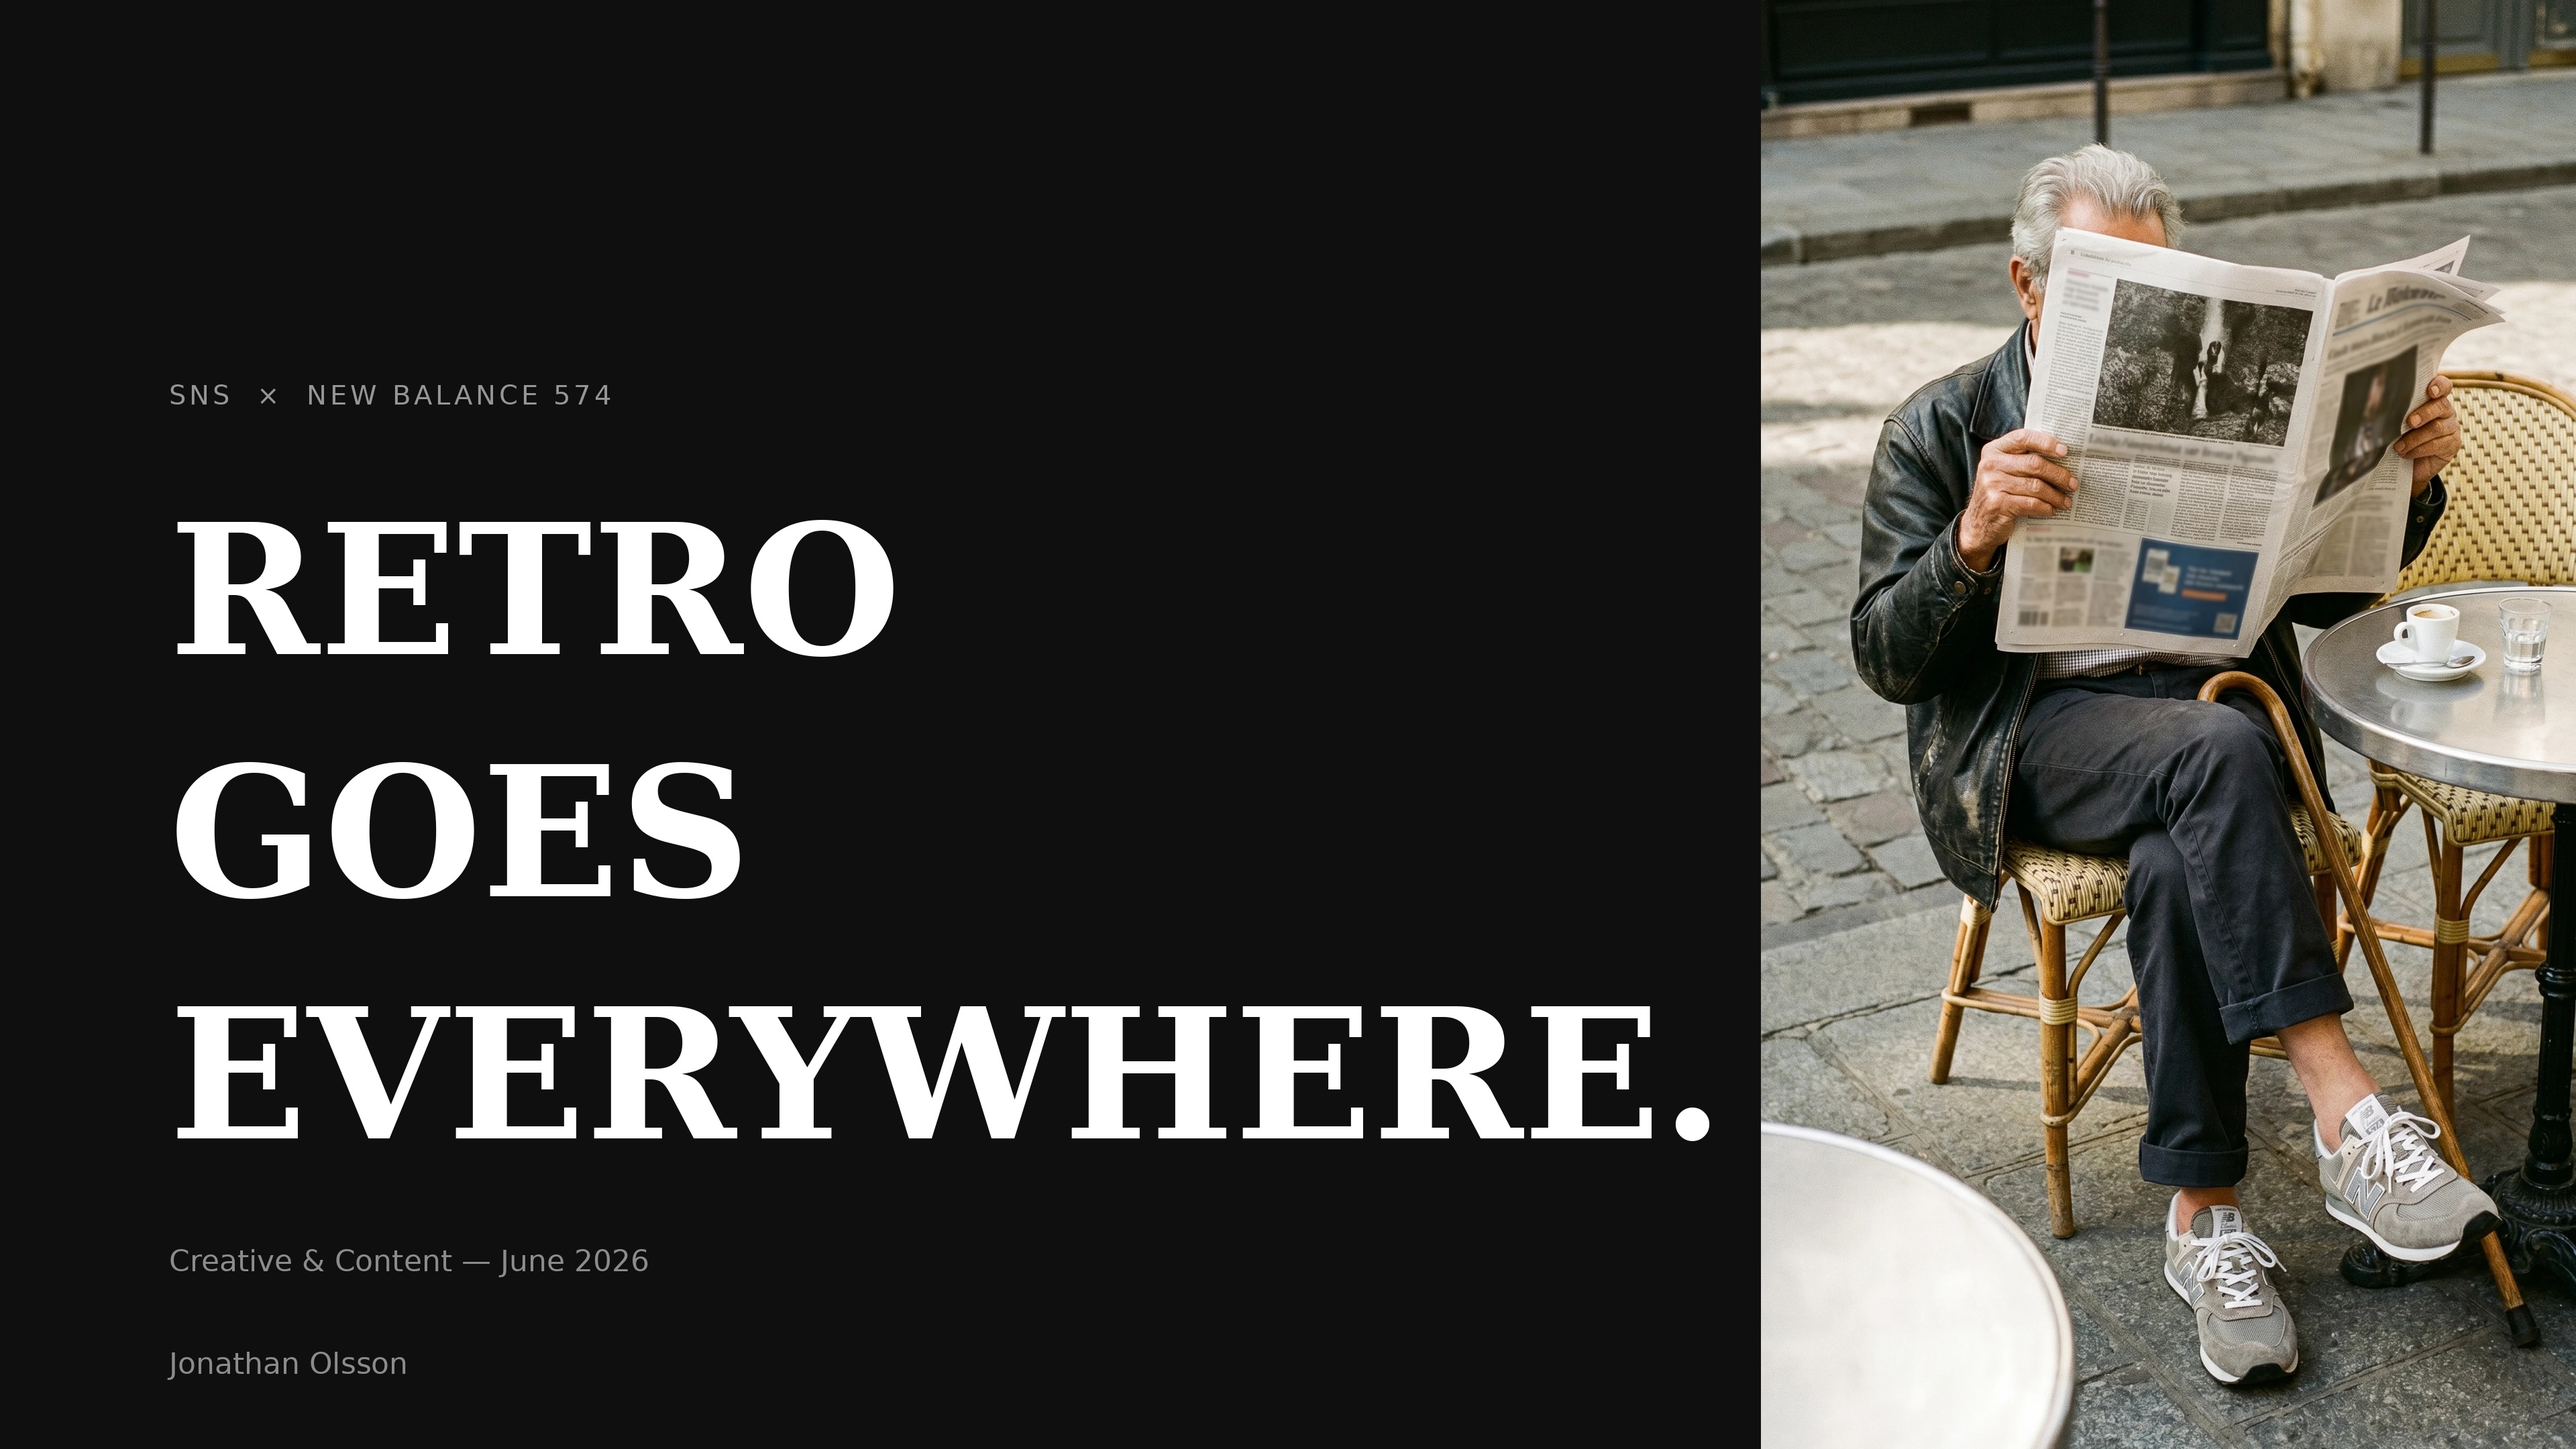
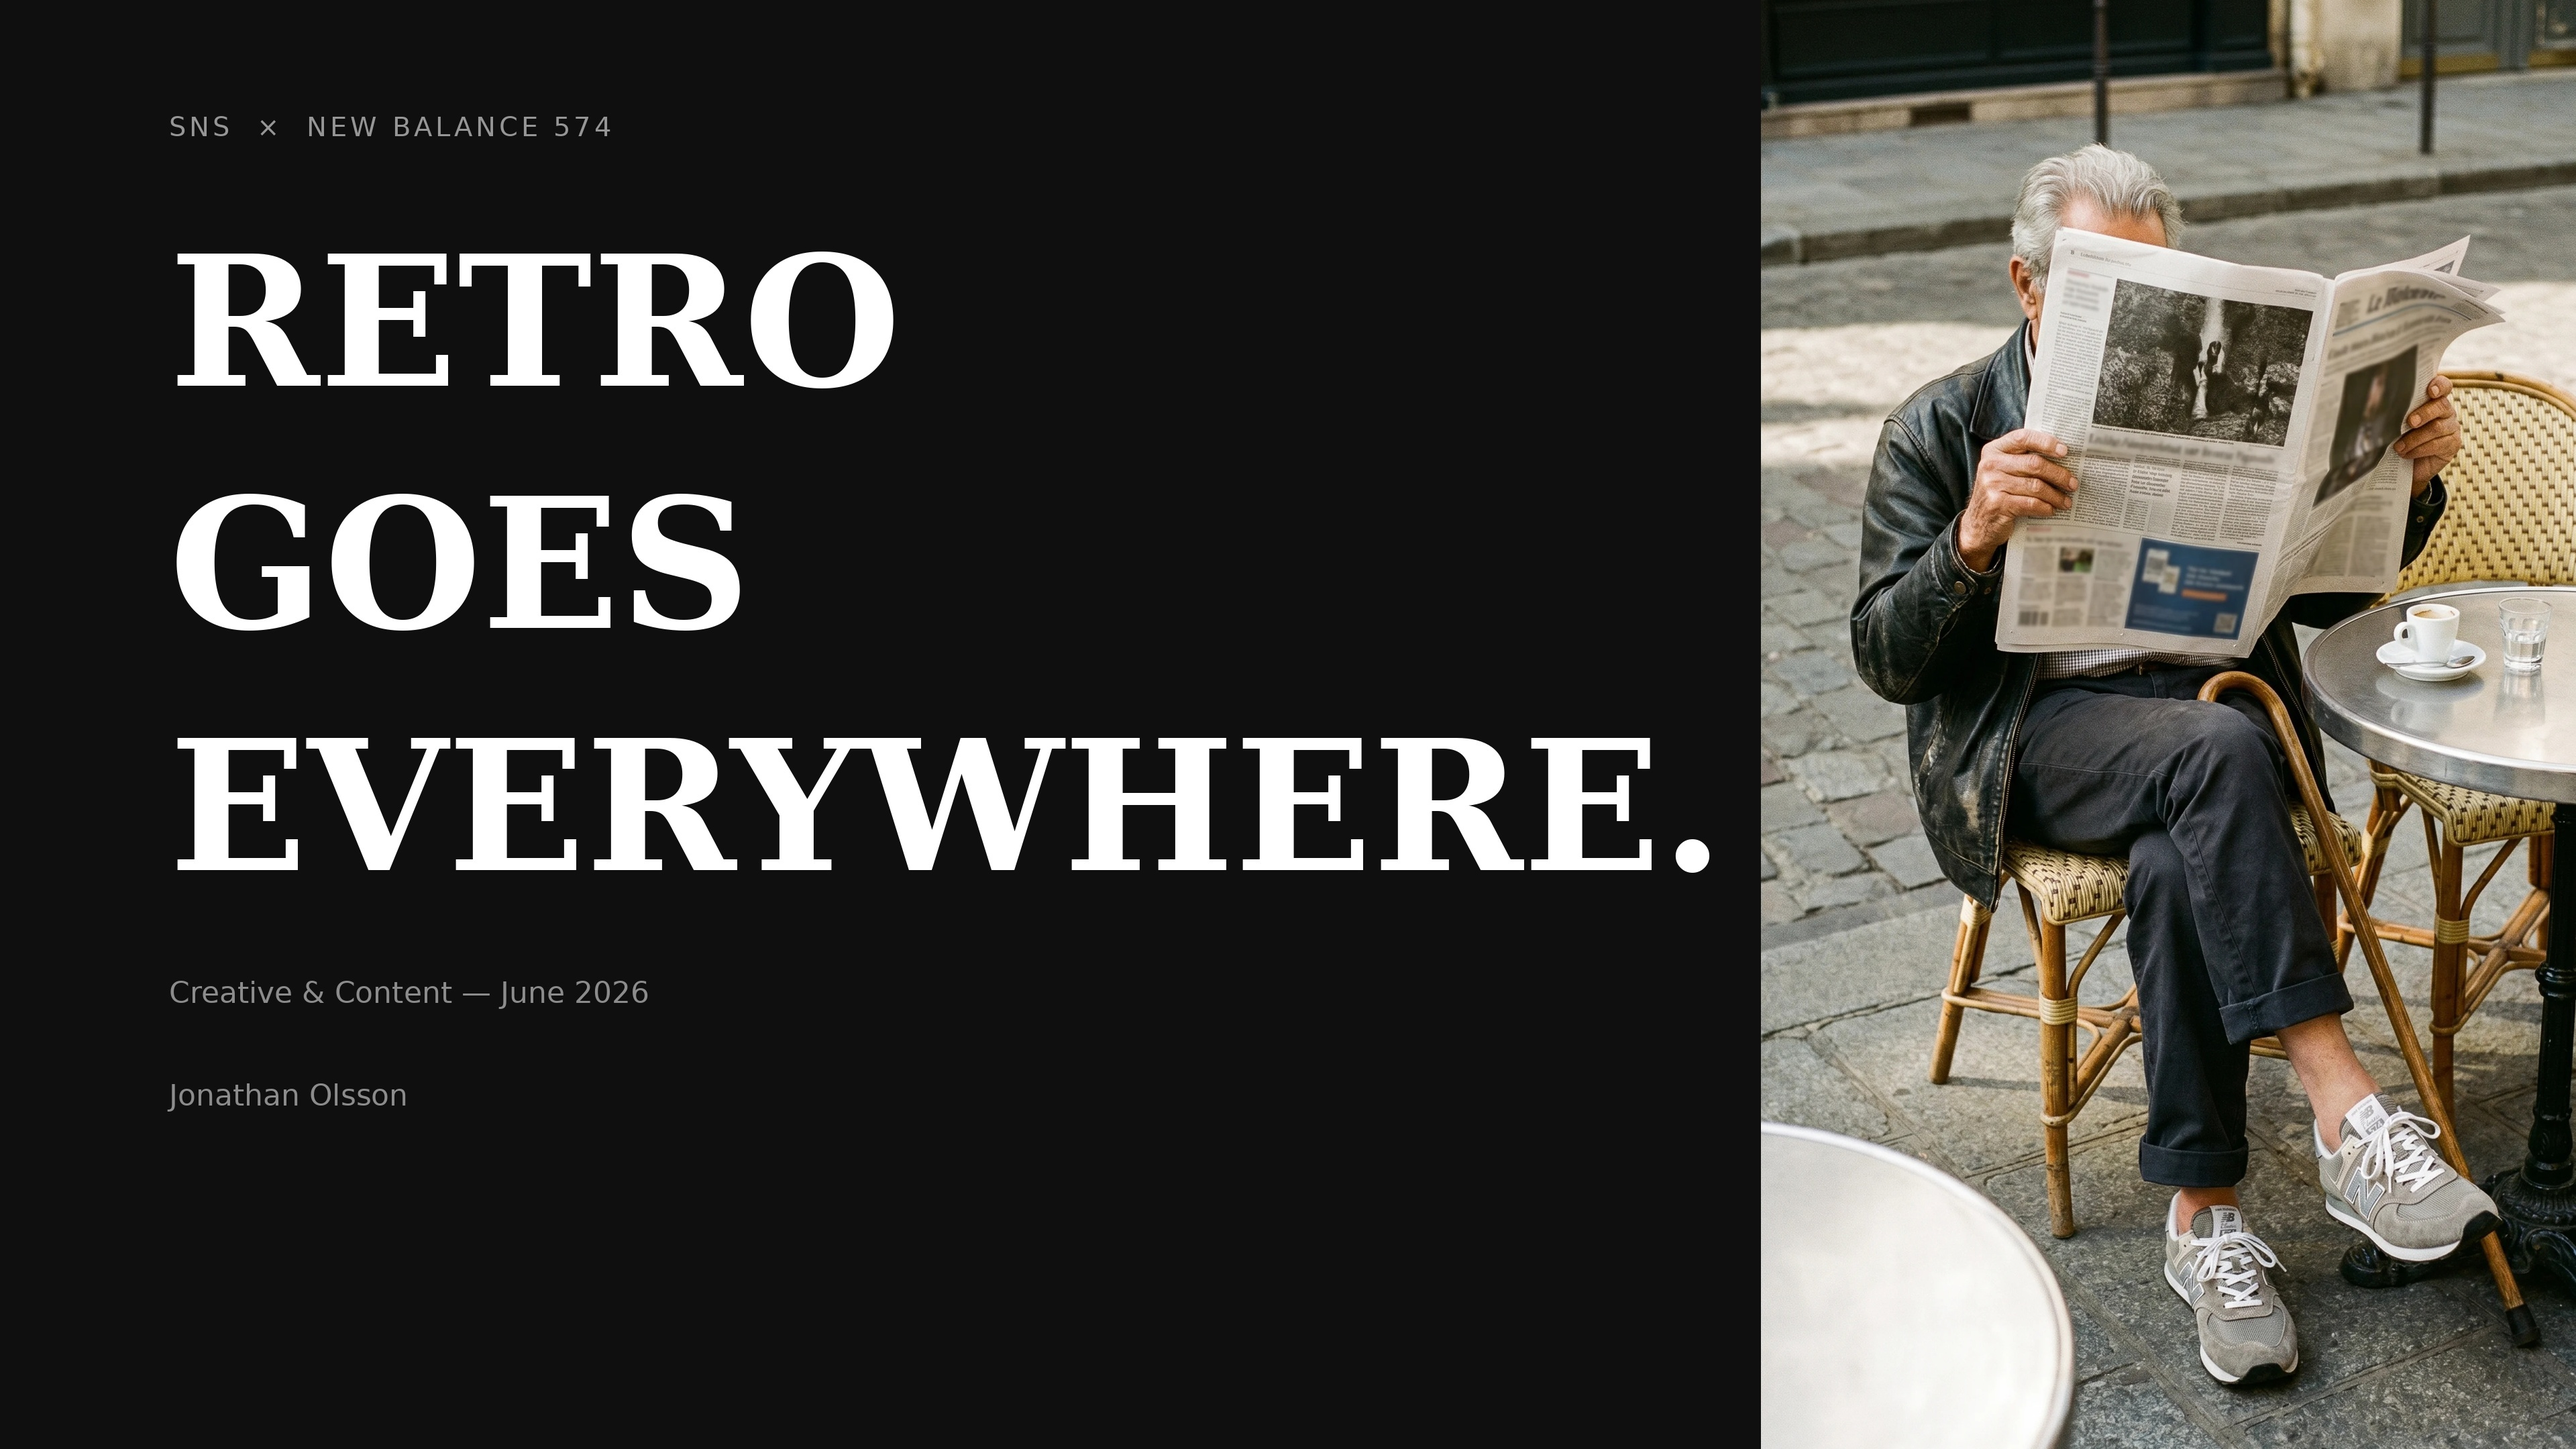
Update portfolio

diff --git a/index_v2.html b/index_v2.html
@@ -182,6 +182,17 @@
 <div class="page">
   <div class="section-label">Selected Works</div>
 
+  <div class="feature-row">
+    <div class="card">
+      <img src="Selected/sns_retro_goes_everywhere.jpg" alt="SNS x New Balance 574" loading="lazy"/>
+      <div class="cap"><b>SNS x New Balance 574</b><span>Footwear — AI Image</span></div>
+    </div>
+    <div class="card">
+      <img src="Selected/efva_attling_4.png" alt="Efva Attling" loading="lazy"/>
+      <div class="cap"><b>Efva Attling</b><span>Jewellery — AI Image</span></div>
+    </div>
+  </div>
+
   <div class="masonry">
     <div class="col">
     <div class="card">
@@ -198,54 +209,6 @@
       <img src="Selected/Vega_2.webp" alt="Efva Attling" loading="lazy"/>
       <div class="cap"><b>Efva Attling</b><span>Jewellery — AI Image</span></div>
     </div>
-    </div>
-    <div class="col">
-    <div class="card">
-      <video autoplay loop muted playsinline preload="auto">
-        <source src="Selected/Maj_Video_1.mp4" type="video/mp4"/>
-      </video>
-      <div class="cap"><b>Efva Attling</b><span>Jewellery — AI Video</span></div>
-    </div>
-    <div class="card">
-      <img src="Selected/sns_skateboard.png" alt="SNS x New Balance 574" loading="lazy"/>
-      <div class="cap"><b>SNS x New Balance 574</b><span>Footwear — AI Image</span></div>
-    </div>
-    <div class="card">
-      <img src="Selected/EFVA%20ATTLING_3.png" alt="Efva Attling" loading="lazy"/>
-      <div class="cap"><b>Efva Attling</b><span>Jewellery — AI Image</span></div>
-    </div>
-    </div>
-    <div class="col">
-    <div class="card">
-      <video autoplay loop muted playsinline preload="auto">
-        <source src="Selected/coelho_video.mp4" type="video/mp4"/>
-      </video>
-      <div class="cap"><b>Coelho</b><span>AI Video</span></div>
-    </div>
-    <div class="card">
-      <img src="Selected/by_veira_miracle_oil.png" alt="By Veira" loading="lazy"/>
-      <div class="cap"><b>By Veira</b><span>Hair Care — AI Image</span></div>
-    </div>
-    <div class="card">
-      <img src="Selected/by_veira_blowout_bottles.png" alt="By Veira" loading="lazy"/>
-      <div class="cap"><b>By Veira</b><span>Hair Care — AI Image</span></div>
-    </div>
-    </div>
-  </div>
-
-  <div class="feature-row">
-    <div class="card">
-      <img src="Selected/sns_retro_goes_everywhere.jpg" alt="SNS x New Balance 574" loading="lazy"/>
-      <div class="cap"><b>SNS x New Balance 574</b><span>Footwear — AI Image</span></div>
-    </div>
-    <div class="card">
-      <img src="Selected/efva_attling_4.png" alt="Efva Attling" loading="lazy"/>
-      <div class="cap"><b>Efva Attling</b><span>Jewellery — AI Image</span></div>
-    </div>
-  </div>
-
-  <div class="masonry">
-    <div class="col">
     <div class="card">
       <img src="Selected/sachajuan_6.png" alt="Sachajuan" loading="lazy"/>
       <div class="cap"><b>Sachajuan</b><span>Hair Care — AI Image</span></div>
@@ -272,6 +235,20 @@
     </div>
     </div>
     <div class="col">
+    <div class="card">
+      <video autoplay loop muted playsinline preload="auto">
+        <source src="Selected/Maj_Video_1.mp4" type="video/mp4"/>
+      </video>
+      <div class="cap"><b>Efva Attling</b><span>Jewellery — AI Video</span></div>
+    </div>
+    <div class="card">
+      <img src="Selected/sns_skateboard.png" alt="SNS x New Balance 574" loading="lazy"/>
+      <div class="cap"><b>SNS x New Balance 574</b><span>Footwear — AI Image</span></div>
+    </div>
+    <div class="card">
+      <img src="Selected/EFVA%20ATTLING_3.png" alt="Efva Attling" loading="lazy"/>
+      <div class="cap"><b>Efva Attling</b><span>Jewellery — AI Image</span></div>
+    </div>
     <div class="card">
       <img src="Selected/Stilleben_2.webp" alt="Efva Attling" loading="lazy"/>
       <div class="cap"><b>Efva Attling</b><span>Jewellery — AI Image</span></div>
@@ -301,6 +278,20 @@
     </div>
     </div>
     <div class="col">
+    <div class="card">
+      <video autoplay loop muted playsinline preload="auto">
+        <source src="Selected/coelho_video.mp4" type="video/mp4"/>
+      </video>
+      <div class="cap"><b>Coelho</b><span>AI Video</span></div>
+    </div>
+    <div class="card">
+      <img src="Selected/by_veira_miracle_oil.png" alt="By Veira" loading="lazy"/>
+      <div class="cap"><b>By Veira</b><span>Hair Care — AI Image</span></div>
+    </div>
+    <div class="card">
+      <img src="Selected/by_veira_blowout_bottles.png" alt="By Veira" loading="lazy"/>
+      <div class="cap"><b>By Veira</b><span>Hair Care — AI Image</span></div>
+    </div>
     <div class="card">
       <video autoplay loop muted playsinline preload="auto">
         <source src="Selected/Vega_Video_3.mp4" type="video/mp4"/>
